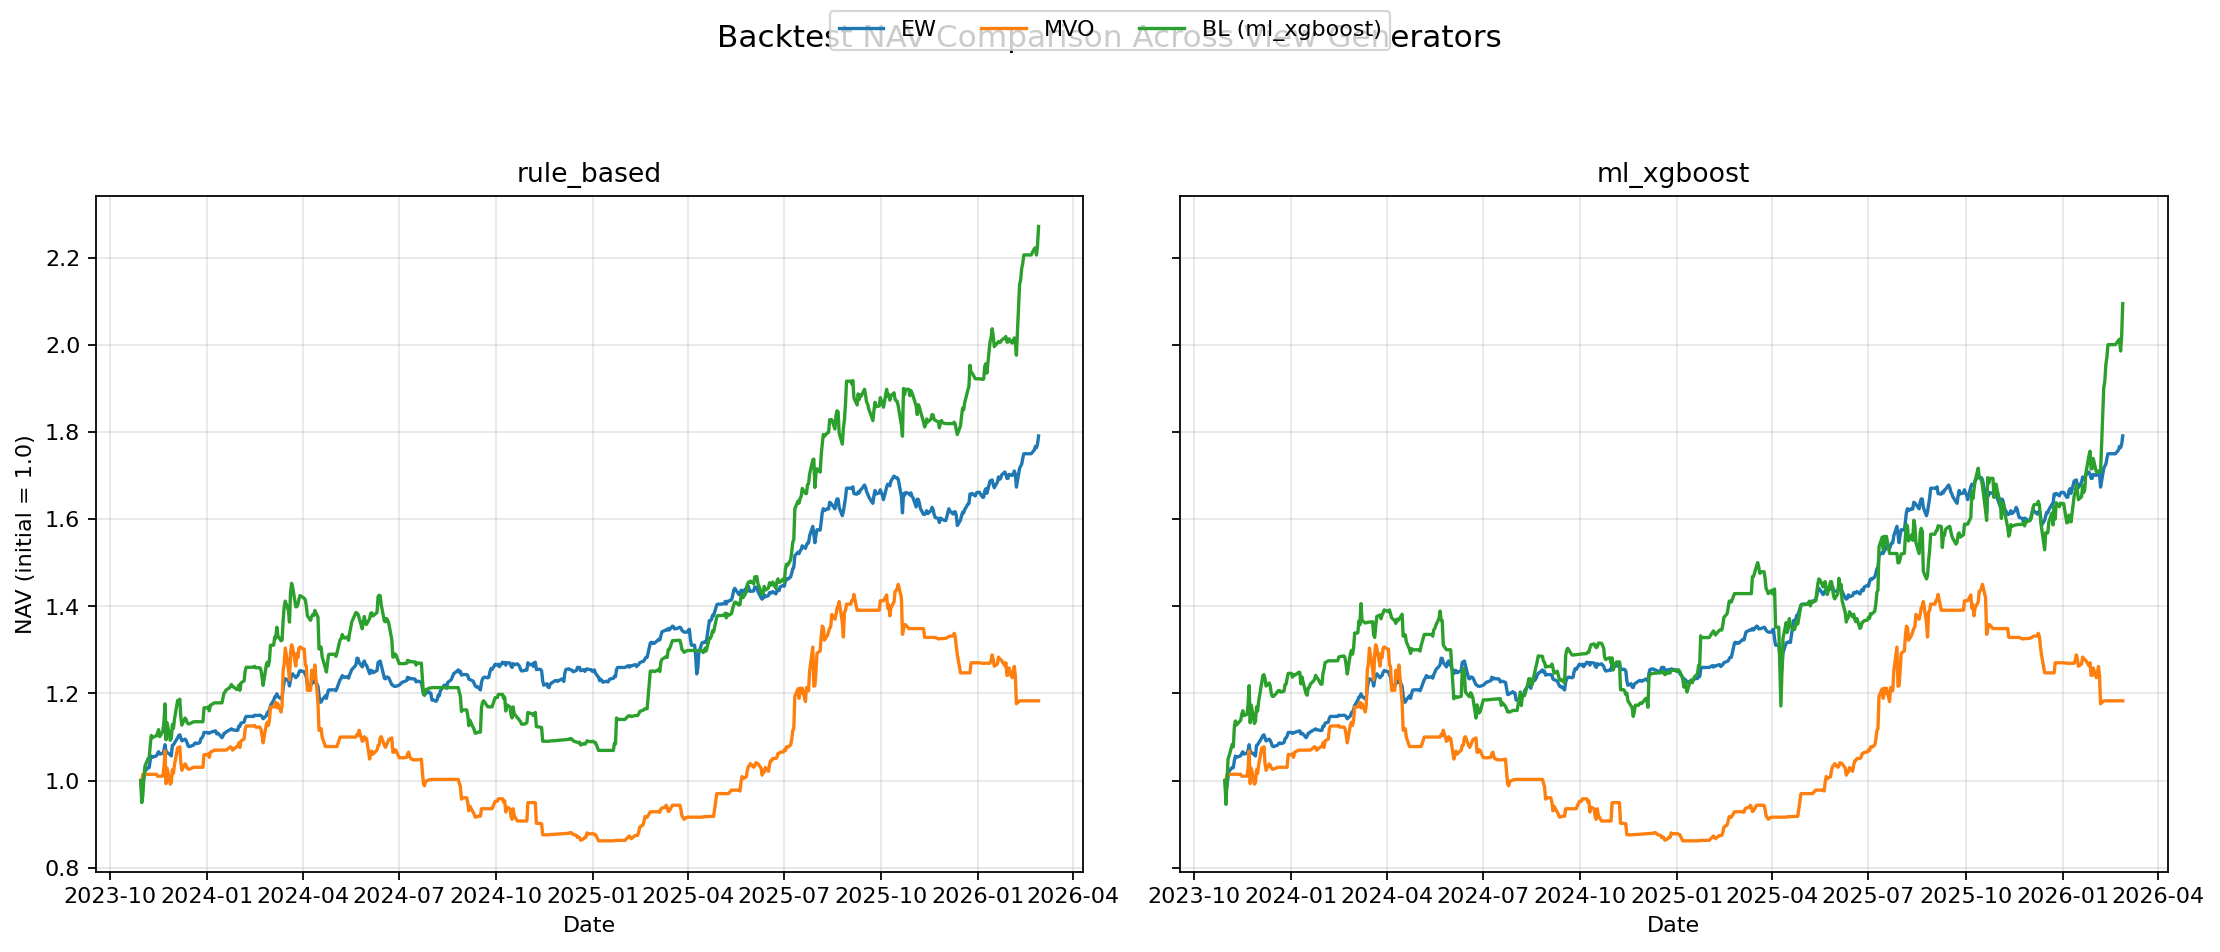
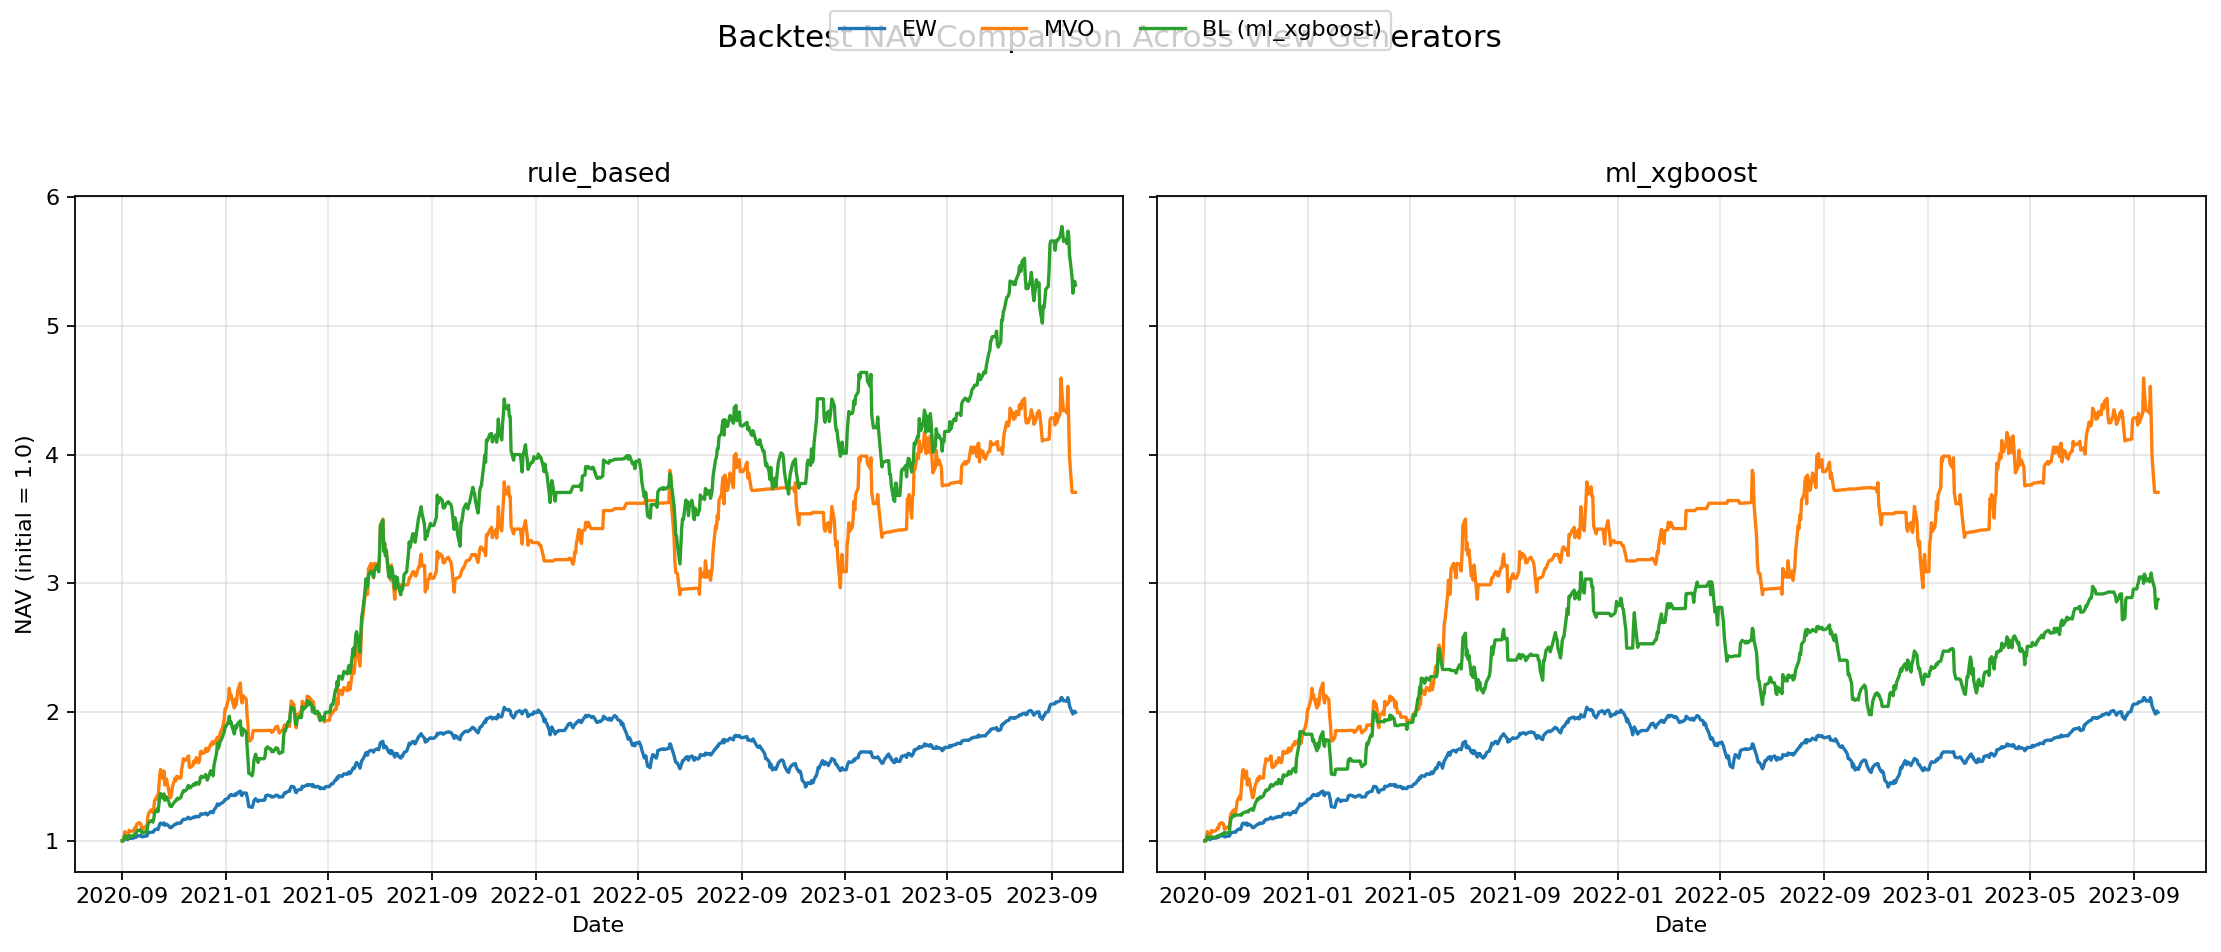
fix(backtest): update default phase and rename model parameter

diff --git a/run_compare_backtests.py b/run_compare_backtests.py
@@ -5,7 +5,10 @@ import matplotlib.pyplot as plt
 import pandas as pd
 
 import backtest as bt
-from config import PHASE_PERIODS
+from config import (
+    PHASE_PERIODS,
+    BACKTEST_PHASE
+)
 from utils.data_loader import build_price_table, load_assets_config
 
 
@@ -18,7 +21,7 @@ def parse_args():
     parser.add_argument(
         "--phase",
         choices=list(PHASE_PERIODS.keys()),
-        default="test",
+        default=BACKTEST_PHASE,
         help="Backtest phase (train/test/full)",
     )
     parser.add_argument("--start-date", default=None, help="Override start date YYYY-MM-DD")
@@ -208,7 +211,7 @@ def main():
         prices,
         scenario_name="ml_xgboost",
         view_mode="ml",
-        xgb_model=xgb_model,
+        ml_model=xgb_model,
     )
     results_by_scenario["ml_xgboost"] = result_xgb
 
